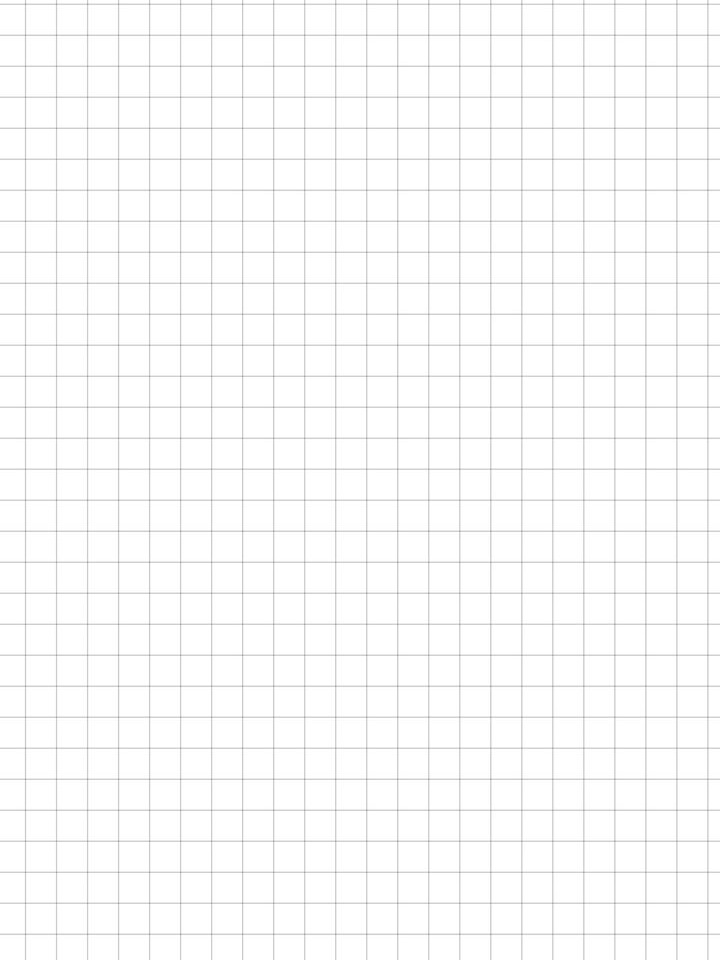
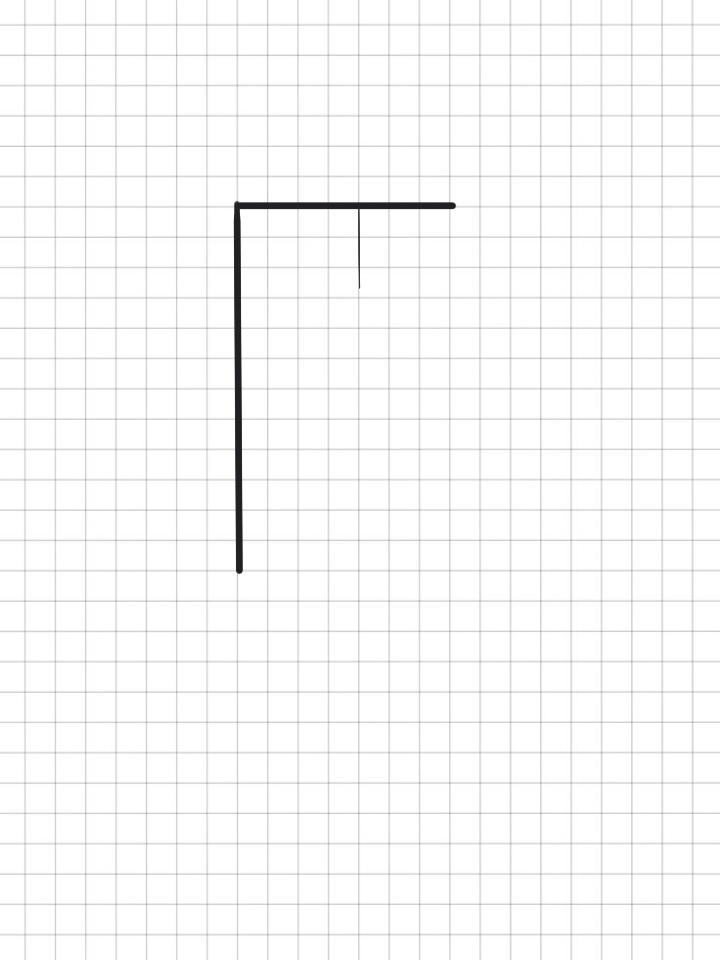
Обновление 11
Изменён фон игры
Обновление в списке слов
Изменено расположение категории и самого слова (отображение ошибок убрано) + оцентрированно

Changed region(s): [[0.2444, 0.0, 1.0, 1.0], [0.0306, 0.0, 0.1222, 0.9688], [0.1528, 0.0, 0.2139, 0.9688]]

diff --git a/TextureManager.cpp b/TextureManager.cpp
@@ -62,7 +62,7 @@ void TextureManager::drawFrame(std::string tag, float x, float y, float width,
 
 // Для работы с текстом
 bool TextureManager::loadFont(std::string fontPath, std::string fontTag, int fontSize) {
-    TTF_Font* font = TTF_OpenFont(fontPath.c_str(), fontSize);
+TTF_Font* font = TTF_OpenFont(fontPath.c_str(), fontSize);
     if (font == nullptr) {
         std::cerr << "Failed to load font" << std::endl;
         return false;
@@ -74,8 +74,7 @@ bool TextureManager::loadFont(std::string fontPath, std::string fontTag, int fon
     return true;
 }
 
-SDL_Texture* TextureManager::createTextTexture(const std::string& text, const std::string& fontTag,
-    SDL_Color color, SDL_Renderer* renderer) {
+SDL_Texture* TextureManager::createTextTexture(const std::string& text, const std::string& fontTag, SDL_Color color, SDL_Renderer* renderer) {
     TTF_Font* font = defaultFont_; //запасной вариант
     if (fontMap_.find(fontTag) != fontMap_.end()) { 
         font = fontMap_[fontTag]; // меняем, если нашли
@@ -98,8 +97,24 @@ SDL_Texture* TextureManager::createTextTexture(const std::string& text, const st
     return texture;
 }
 
-void TextureManager::drawText(const std::string& text, const std::string& fontTag,
-    float x, float y, SDL_Color color, SDL_Renderer* renderer) {
+float TextureManager::getCenteredX(const std::string& text, const std::string& fontTag, SDL_Color color, SDL_Renderer* renderer, float screenWidth) {
+    if (text.empty()) {
+        return screenWidth / 2; // центр экрана для пустого текста
+    }
+
+    SDL_Texture* tempTexture = createTextTexture(text, fontTag, color, renderer);
+    if (tempTexture == nullptr) {
+        return screenWidth / 2; // если не удалось создать, возвращаем центр
+    }
+
+    float texW, texH;
+    SDL_GetTextureSize(tempTexture, &texW, &texH);
+    SDL_DestroyTexture(tempTexture);
+
+    return (screenWidth - texW) / 2;
+}
+
+void TextureManager::drawText(const std::string& text, const std::string& fontTag, float x, float y, SDL_Color color, SDL_Renderer* renderer) {
     SDL_Texture* textTexture = createTextTexture(text, fontTag, color, renderer);
     if (textTexture != nullptr) {
         float texW, texH;
@@ -116,9 +131,7 @@ void TextureManager::drawText(const std::string& text, const std::string& fontTa
     }
 }
 
-void TextureManager::drawTextWrapped(const std::string& text, const std::string& fontTag,
-    float x, float y, int wrapWidth, SDL_Color color,
-    SDL_Renderer* renderer) {
+void TextureManager::drawTextWrapped(const std::string& text, const std::string& fontTag, float x, float y, int wrapWidth, SDL_Color color, SDL_Renderer* renderer) {
     TTF_Font* font = defaultFont_;
     if (fontMap_.find(fontTag) != fontMap_.end()) {
         font = fontMap_[fontTag];

diff --git a/Game.cpp b/Game.cpp
@@ -3,10 +3,9 @@
 #include "MenuInputHandler.hpp"
 #include "TextureManager.hpp"
 
-#include <clocale>
 #include <iostream>
 
-Game::Game() : mixer_(nullptr), musicAudio_(nullptr), musicTrack_(nullptr) {  }
+Game::Game() : mixer_(nullptr), musicAudio_(nullptr), musicTrack_(nullptr) {}
 Game::~Game() { stopMusic(); }
 
 
@@ -57,7 +56,7 @@ bool Game::init(std::string title, int w, int h, int flags) {
         std::cerr << "Failed to load word list" << std::endl;
         return false;
     }
-
+ 
     maxWrongGuesses_ = 6;
     wrongGuesses_ = 0;
     startNewGame();
@@ -354,7 +353,7 @@ bool Game::loadWordList(const std::string& filename) {
 
     file.close();
     std::cout << "Total words loaded: " << wordList_.size() << std::endl;
-    return !wordList_.empty();
+    return !wordList_.empty(); 
 }
 
 void Game::startNewGame() {
@@ -438,9 +437,14 @@ void Game::checkLetterInWord(int letterIndex) {
 }
 
 void Game::renderWordProgress() {
+
+    const int SCREEN_WIDTH = 720;
+
     // Отрисовка категории
+    std::string categoryText = u8"Категория: " + currentCategory_;
     SDL_Color categoryColor = { 100, 100, 150, 255 };
-    TextureManager::Instance().drawText( "Category: " + currentCategory_, "main_font", 360, 550, categoryColor, renderer_);
+    float categoryX = TextureManager::Instance().getCenteredX(categoryText, "main_font", categoryColor, renderer_, SCREEN_WIDTH); // Берём правильный размер для центрирования
+    TextureManager::Instance().drawText(categoryText, "main_font", categoryX, 80, categoryColor, renderer_);
 
     // Формируем строку с угаданными буквами
     std::string displayWord = "";
@@ -457,12 +461,8 @@ void Game::renderWordProgress() {
     }
 
     SDL_Color wordColor = { 0, 0, 0, 255 };
-    TextureManager::Instance().drawText(displayWord, "main_font", 360, 600, wordColor, renderer_);
-
-    // Отрисовка счётчика ошибок
-    std::string errorsText = "Errors: " + std::to_string(wrongGuesses_) + "/" + std::to_string(maxWrongGuesses_);
-    SDL_Color errorColor = { 200, 0, 0, 255 };
-    TextureManager::Instance().drawText(errorsText, "main_font", 360, 650, errorColor, renderer_);
+    float wordX = TextureManager::Instance().getCenteredX(displayWord, "main_font", wordColor, renderer_, SCREEN_WIDTH); // Центрируем слово
+    TextureManager::Instance().drawText(displayWord, "main_font", wordX, 625, wordColor, renderer_);
 }
 
 // Уже непосредственно сама отрисовка

diff --git a/TextureManager.hpp b/TextureManager.hpp
@@ -34,6 +34,7 @@ public:
     // Для работы с текстом
     bool loadFont(std::string fontPath, std::string fontTag, int fontSize);
     SDL_Texture* createTextTexture(const std::string& text, const std::string& fontTag, SDL_Color color, SDL_Renderer* renderer); // Создаёт текстуру из текста (временная операция)
+    float getCenteredX(const std::string& text, const std::string& fontTag, SDL_Color color, SDL_Renderer* renderer, float screenWidth); // Метод для центрировая слова и категории в гейме
     void drawText(const std::string& text, const std::string& fontTag, float x, float y, SDL_Color color, SDL_Renderer* renderer);  // Рисует однострочный текст на экране 
     void drawTextWrapped(const std::string& text, const std::string& fontTag, float x, float y, int wrapWidth, SDL_Color color, SDL_Renderer* renderer); // Рисует текст с автоматическим переносом строк
     

diff --git a/main.cpp b/main.cpp
@@ -6,7 +6,6 @@
 Game* g = 0;
 
 int main(int argv, char** argc) {
-    std::setlocale(LC_ALL, "Russian");
     setlocale(LC_ALL, "ru_RU.utf8");
     g = new Game();
     if (g->init("Test Game", 720, 960, SDL_WINDOW_RESIZABLE)) {
